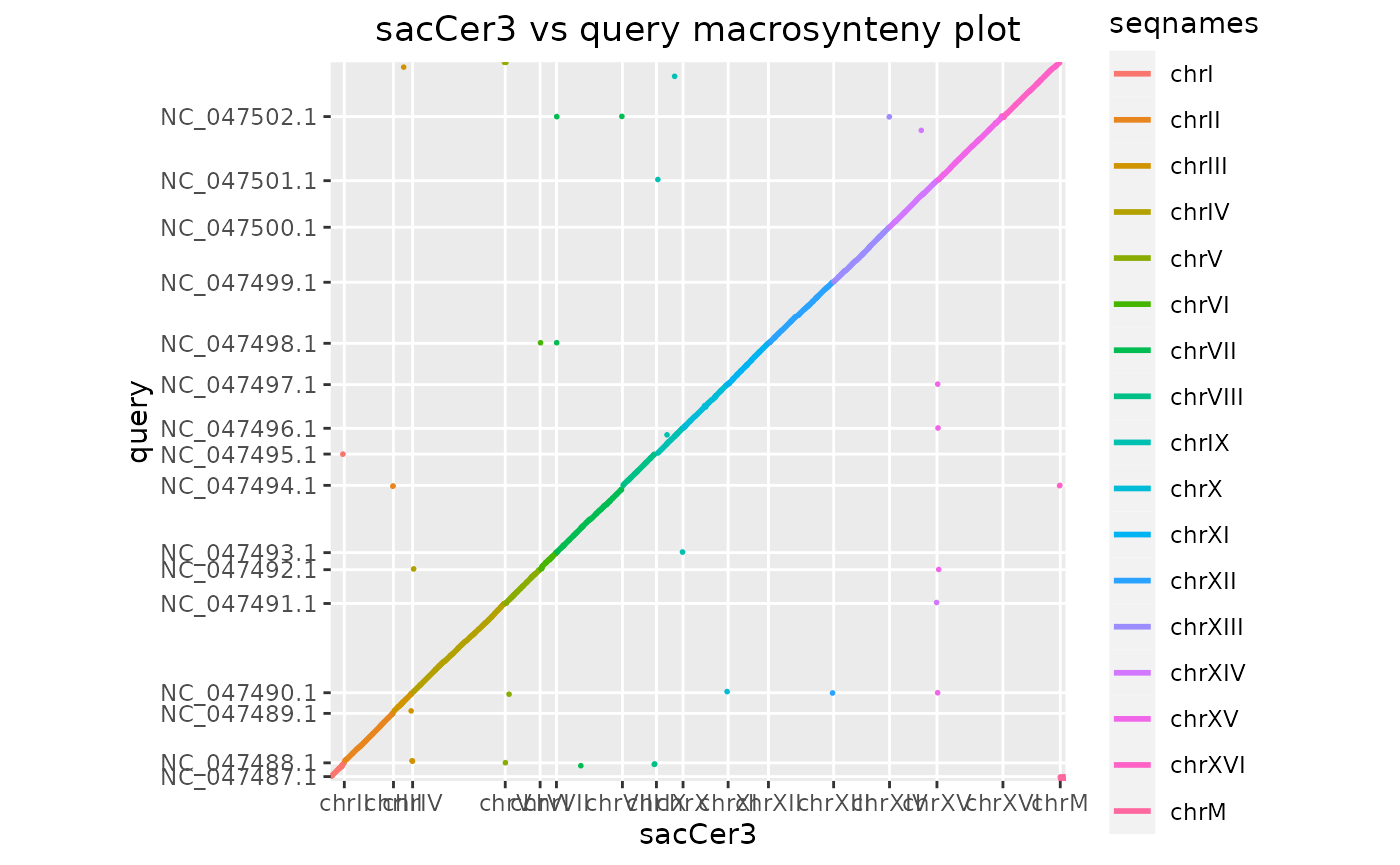
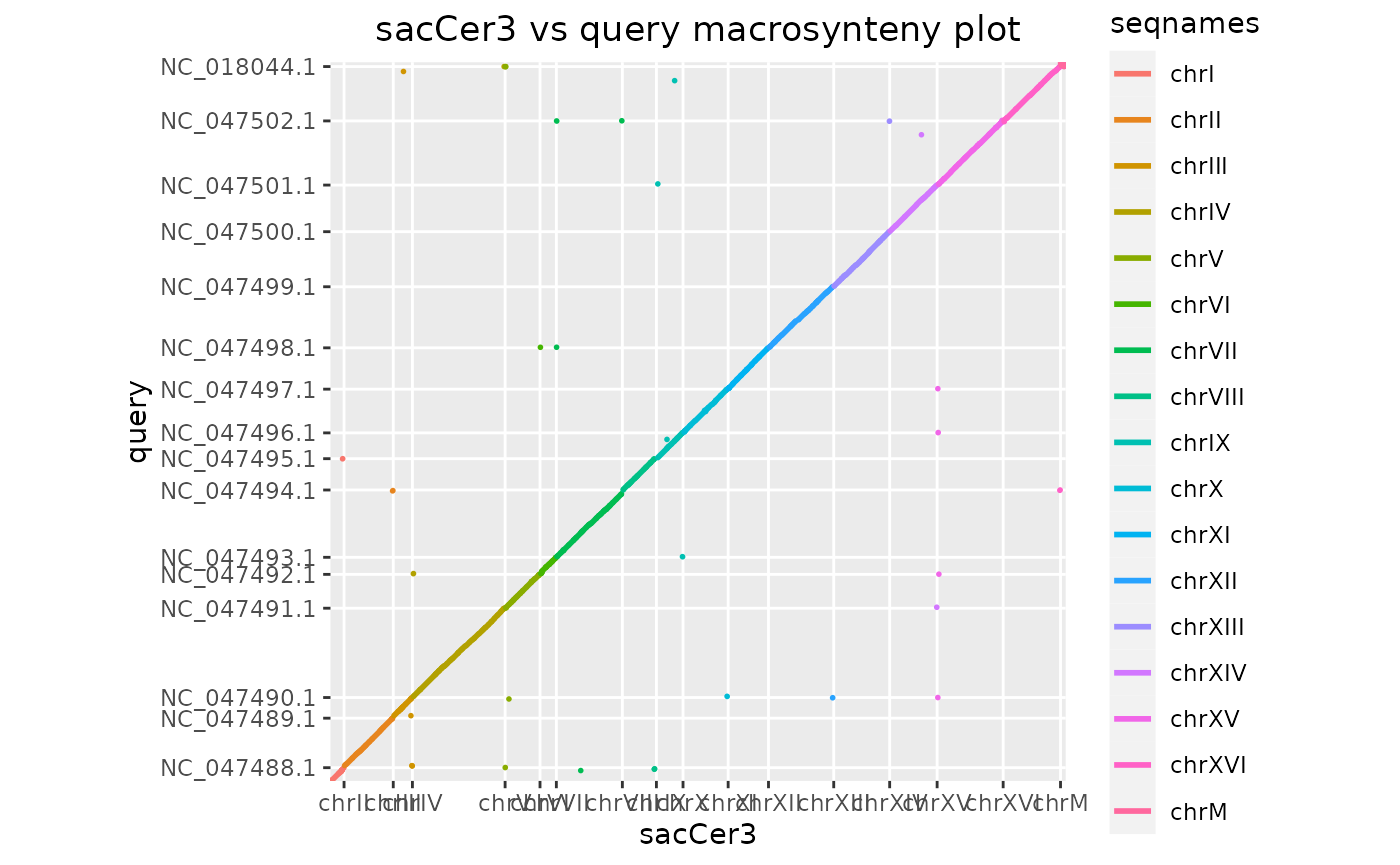
Built site for GenomicBreaks: 0.11.99@6d28b7f

diff --git a/reference/makeOxfordPlots.html b/reference/makeOxfordPlots.html
@@ -72,12 +72,13 @@ concatenating them.</p>
     <div id="ref-usage">
     <div class="sourceCode"><pre class="sourceCode r"><code><span class="fu">makeOxfordPlots</span><span class="op">(</span>
   <span class="va">gb</span>,
-  sp1Name <span class="op">=</span> <span class="st">"sp1"</span>,
-  sp2Name <span class="op">=</span> <span class="st">"sp2"</span>,
+  sp1Name <span class="op">=</span> <span class="st">"target"</span>,
+  sp2Name <span class="op">=</span> <span class="st">"query"</span>,
   sp1ChrArms <span class="op">=</span> <span class="cn">NULL</span>,
   sp2ChrArms <span class="op">=</span> <span class="cn">NULL</span>,
   type <span class="op">=</span> <span class="fu"><a href="https://rdrr.io/r/base/c.html" class="external-link">c</a></span><span class="op">(</span><span class="st">"line"</span>, <span class="st">"point"</span><span class="op">)</span>,
-  size <span class="op">=</span> <span class="fl">1</span>
+  size <span class="op">=</span> <span class="fl">1</span>,
+  diag <span class="op">=</span> <span class="cn">TRUE</span>
 <span class="op">)</span></code></pre></div>
     </div>
 
@@ -97,6 +98,8 @@ concatenating them.</p>
 <dd><p>The type of the plot (<code>point</code> or <code>line</code>)</p></dd>
 <dt>size</dt>
 <dd><p>The size of the plotted dots or segments.</p></dd>
+<dt>diag</dt>
+<dd><p>Diagonalise the plot by reordering <em>query</em> sequence levels.</p></dd>
 </dl></div>
     <div id="value">
     <h2>Value</h2>

diff --git a/news/index.html b/news/index.html
@@ -72,6 +72,7 @@
 <ul><li>New function <code><a href="../reference/orderQuerySeqLevels.html">orderQuerySeqLevels()</a></code> to better diagonalise dot plots.</li>
 <li>New <code>size</code> parameter in <code><a href="../reference/makeOxfordPlots.html">makeOxfordPlots()</a></code>
 </li>
+<li>New <code>diag</code> parameter in <code><a href="../reference/makeOxfordPlots.html">makeOxfordPlots()</a></code> to diagonalise the plots by re-ordering <em>query</em> sequence levels.</li>
 </ul></div>
 </div>
     <div class="section level2">
